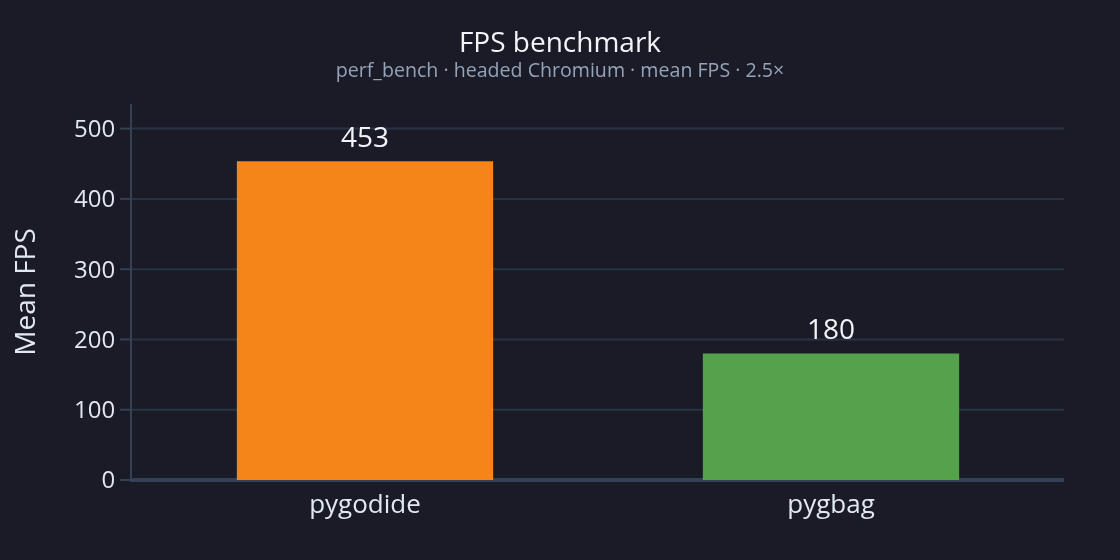
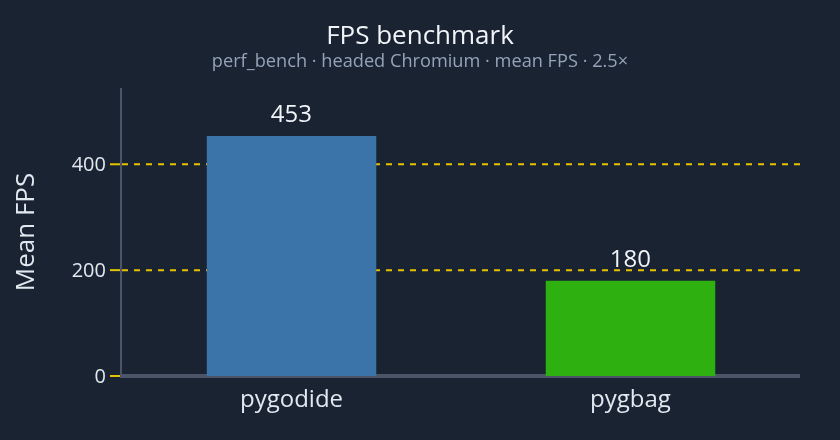
docs: make README chart a bit nicer

diff --git a/benchmarks/perf_benchmark/chart.py b/benchmarks/perf_benchmark/chart.py
@@ -28,9 +28,15 @@ CHART_HEIGHT = 460
 PLOTLY_CONFIG = {"responsive": True, "displayModeBar": False}
 
 # README-only comparison (no local desktop bar).
+# Colors from docs/assets/images/pygodide-logo.svg (playfield blue, apple green).
 README_RUNTIMES = ("pygodide", "pygbag")
-README_CHART_WIDTH = 560
-README_CHART_HEIGHT = 280
+README_RUNTIME_COLORS = {
+    "pygodide": "#3A74A8",  # playfield blue
+    "pygbag": "#2DB010",  # apple green
+}
+README_CHART_BG = "#1A2332"  # logo dark window fill
+README_CHART_WIDTH = 420
+README_CHART_HEIGHT = 220
 README_CHART_SCALE = 2
 
 
@@ -136,7 +142,7 @@ def build_readme_figure(report: BenchmarkReport) -> go.Figure:
             continue
         runtimes.append(RUNTIME_LABELS.get(runtime, runtime))
         fps_values.append(result.fps_mean)
-        colors.append(RUNTIME_COLORS.get(runtime, "#888888"))
+        colors.append(README_RUNTIME_COLORS.get(runtime, "#888888"))
         text_labels.append(f"{result.fps_mean:.0f}")
 
     if not runtimes:
@@ -152,6 +158,8 @@ def build_readme_figure(report: BenchmarkReport) -> go.Figure:
         subtitle = f"{subtitle} · {ratio:.1f}×"
 
     max_fps = max(fps_values)
+    axis = "#4A5568"  # logo dark window-stroke
+    grid = "#E8C200"  # snake gold — horizontal ticks / grid
     figure = go.Figure(
         data=[
             go.Bar(
@@ -164,8 +172,8 @@ def build_readme_figure(report: BenchmarkReport) -> go.Figure:
                 },
                 text=text_labels,
                 textposition="outside",
-                textfont={"size": 14, "color": "#f1f5f9"},
-                width=0.55,
+                textfont={"size": 12, "color": "#F1F5F9"},
+                width=0.5,
                 hovertemplate="Runtime=%{x}<br>FPS mean=%{y:.2f}<extra></extra>",
             )
         ]
@@ -174,43 +182,46 @@ def build_readme_figure(report: BenchmarkReport) -> go.Figure:
         template="plotly_dark",
         title={
             "text": (
-                f"<span style='color:#f1f5f9'>FPS benchmark</span>"
-                f"<br><sup style='color:#94a3b8'>{subtitle}</sup>"
+                f"<span style='color:#F1F5F9'>FPS benchmark</span>"
+                f"<br><sup style='color:#94A3B8'>{subtitle}</sup>"
             ),
-            "font": {"size": 14},
+            "font": {"size": 13},
             "x": 0.5,
             "xanchor": "center",
         },
-        paper_bgcolor=CHART_BG,
-        plot_bgcolor=CHART_BG,
-        font={"color": "#e2e8f0", "size": 12},
+        paper_bgcolor=README_CHART_BG,
+        plot_bgcolor=README_CHART_BG,
+        font={"color": "#E2E8F0", "size": 11},
         xaxis_title=None,
         yaxis_title="Mean FPS",
         width=README_CHART_WIDTH,
         height=README_CHART_HEIGHT,
-        margin=dict(t=52, l=56, r=28, b=40),
+        margin=dict(t=44, l=48, r=20, b=32),
         showlegend=False,
-        bargap=0.35,
+        bargap=0.4,
     )
     figure.update_xaxes(
-        tickfont={"size": 13},
+        tickfont={"size": 12},
         showline=True,
         linewidth=1,
-        linecolor="#334155",
+        linecolor=axis,
         showgrid=False,
     )
     figure.update_yaxes(
         rangemode="tozero",
-        range=[0, max_fps * 1.18],
+        range=[0, max_fps * 1.2],
         showgrid=True,
-        gridcolor="#283442",
+        gridcolor=grid,
+        griddash="dot",
+        gridwidth=1,
         zeroline=True,
-        zerolinecolor="#334155",
+        zerolinecolor=axis,
         showline=True,
         linewidth=1,
-        linecolor="#334155",
+        linecolor=axis,
         ticks="outside",
-        tickcolor="#334155",
+        tickcolor=grid,
+        tickfont={"size": 10},
     )
     return figure
 

diff --git a/README.md b/README.md
@@ -21,7 +21,7 @@ using [Pyodide](https://pyodide.org/) with one command, no edits to your source 
     <img
       src="docs/assets/images/benchmark-readme.png"
       alt="FPS benchmark: pygodide 453 vs pygbag 180 on perf_bench"
-      width="560"
+      width="420"
     >
   </a>
 </p>